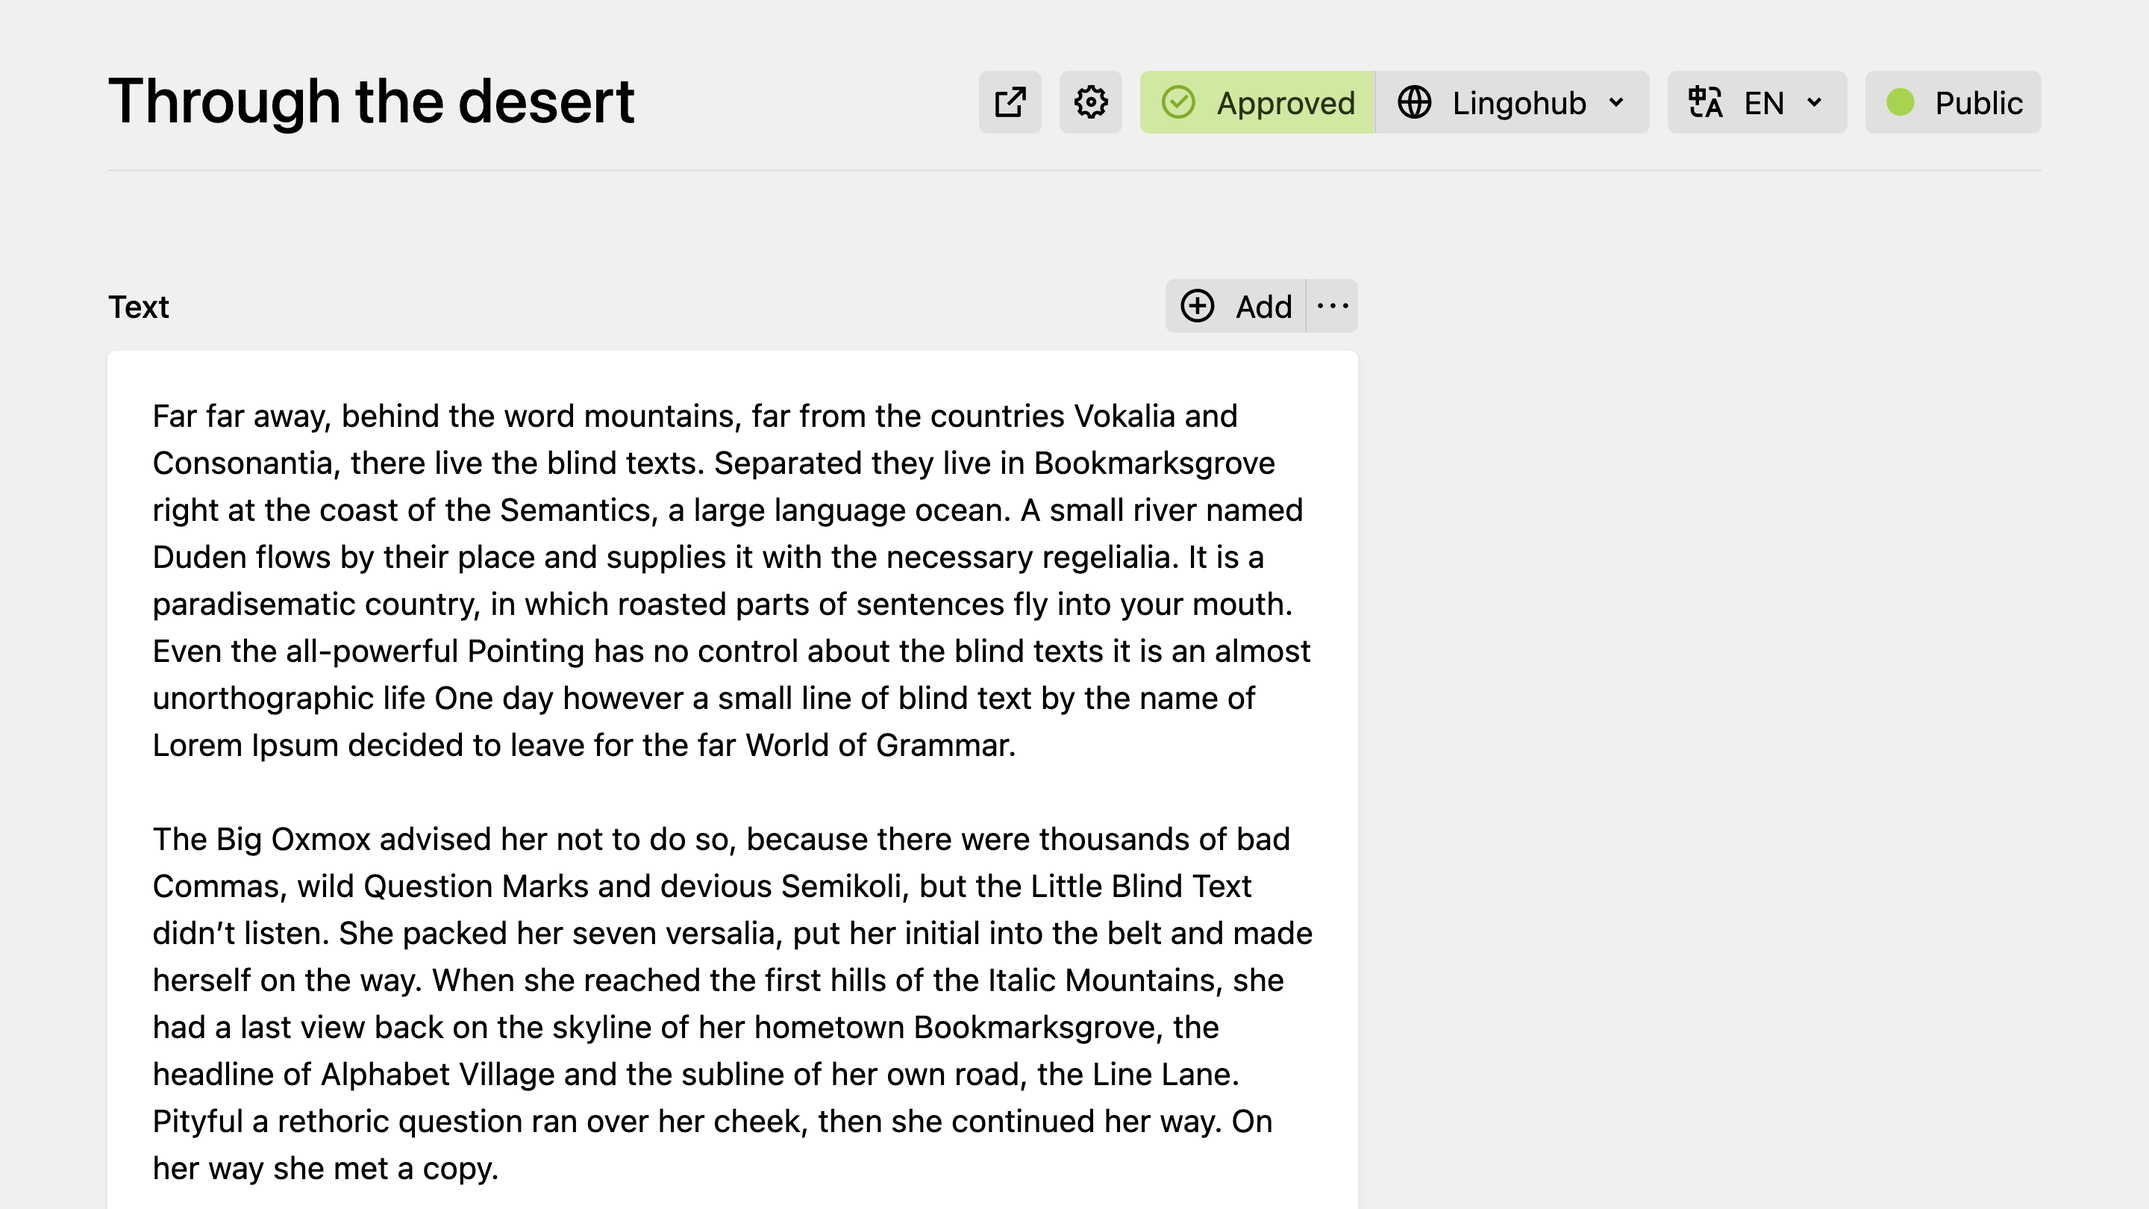
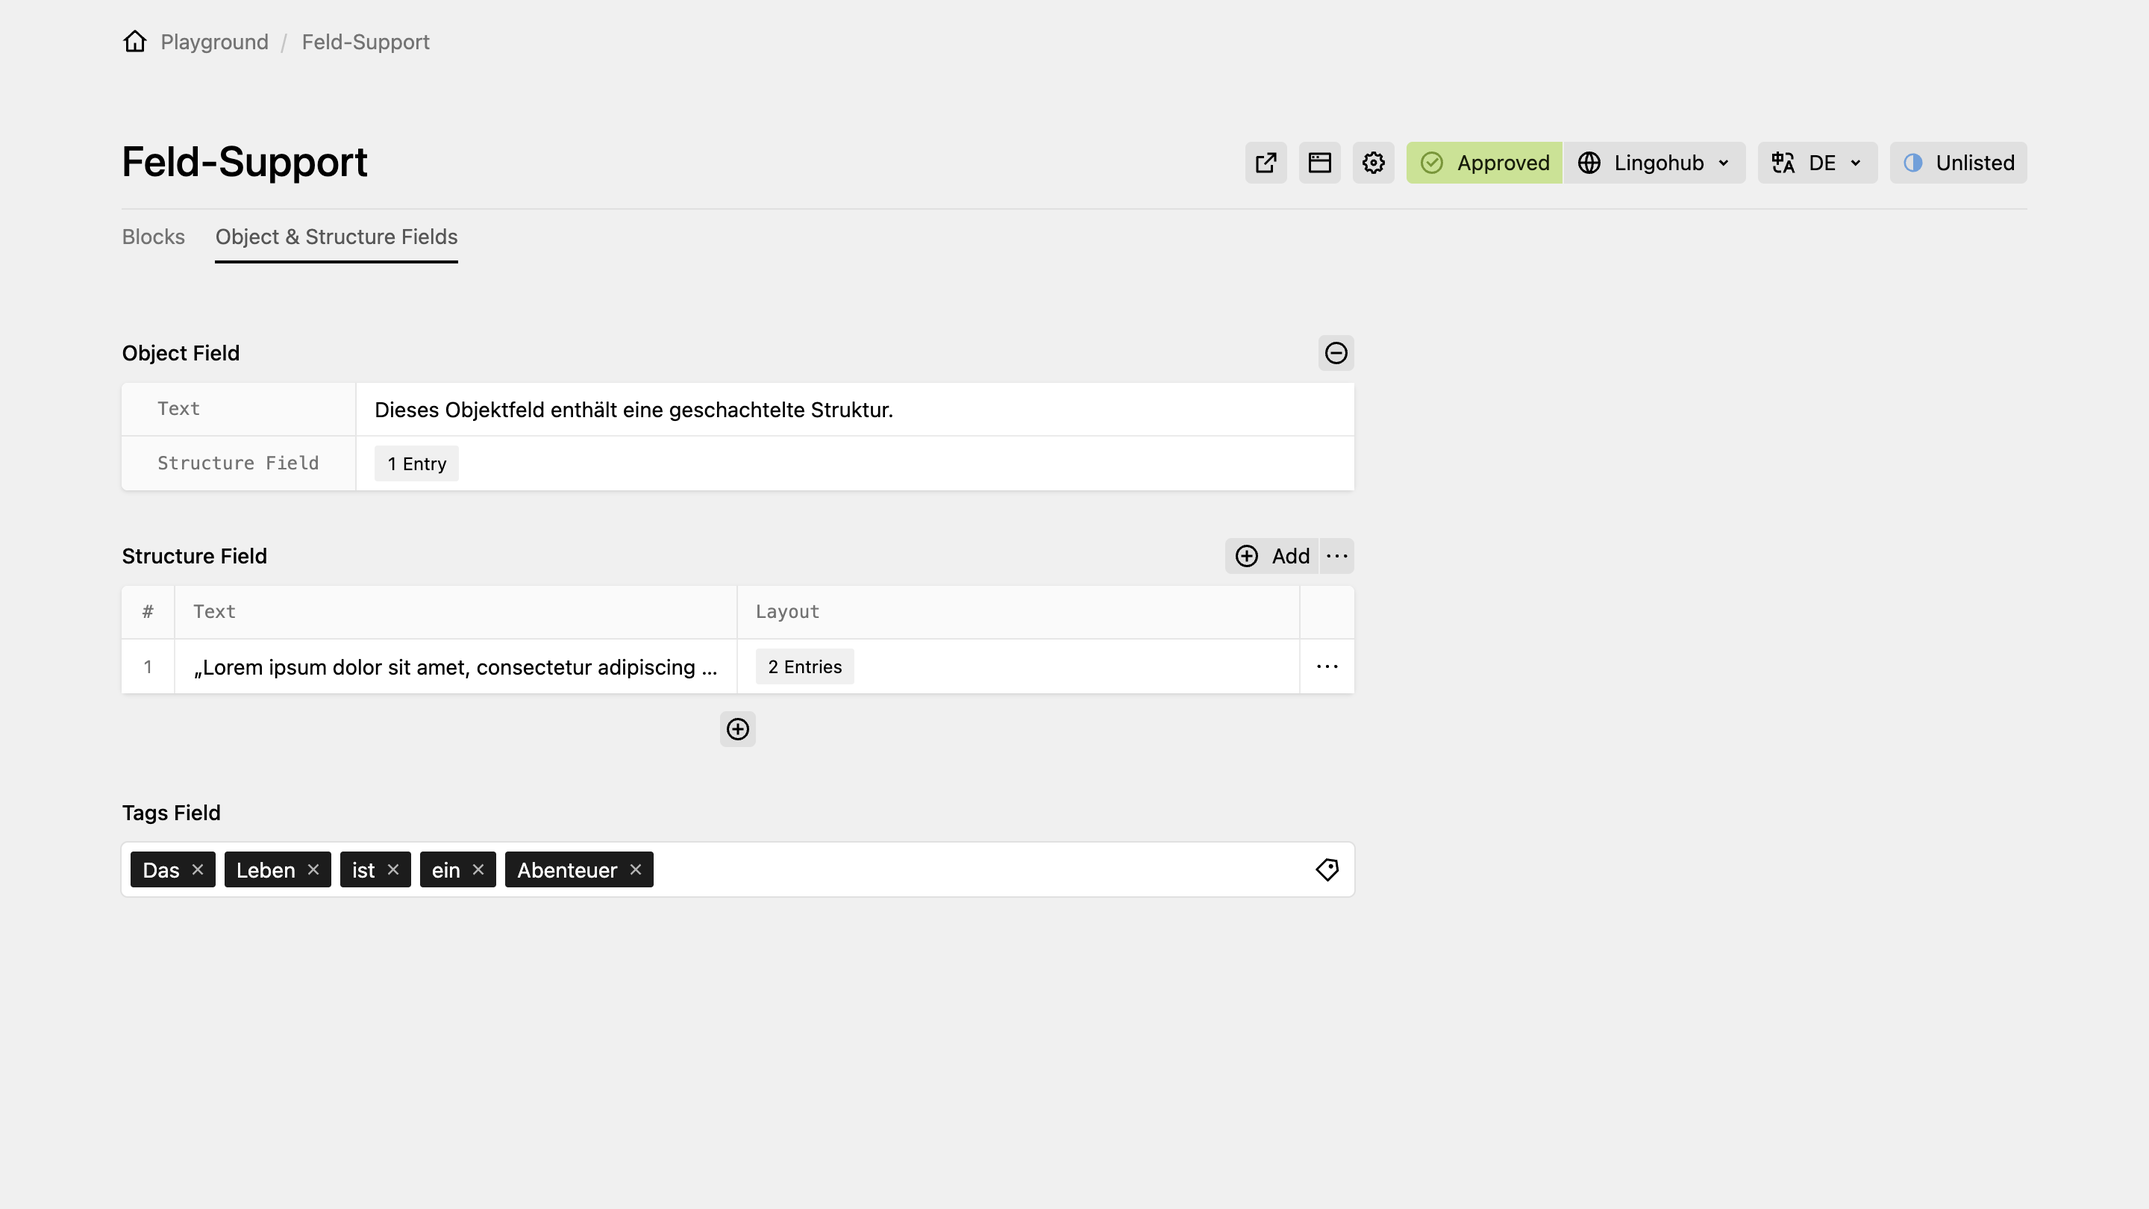
docs: rewrite the README in the shape of the sibling plugins

diff --git a/README.md b/README.md
@@ -1,11 +1,75 @@
-![Kirby Lingohub preview](./.github/kirby-lingohub.png)
+<div align="center">
+  <img src="./.github/favicon.svg" alt="Kirby Lingohub logo" width="120">
 
 # Kirby Lingohub
 
-The Kirby Lingohub plugin integrates the [Lingohub](https://lingohub.com) translation service into your Kirby website. The plugin allows you to upload content from Kirby to Lingohub for translation and download the translations back to Kirby. It handles the whole serialization and deserialization process, including complex field types like blocks, layouts, structures, and objects – even blocks nested within custom blocks.
+Kirby Lingohub is a plugin for [Kirby CMS](https://getkirby.com) that syncs content with the [Lingohub](https://lingohub.com) translation service – blocks, layouts, structures, and objects included, even blocks nested in custom blocks.
+
+[Setup](#setup) •
+[Options](#options) •
+[Field Options](#field-options) •
+[Key Format](#key-format)
+
+</div>
+
+## When to Use
+
+| I want to…                                      | Use                       |
+| ----------------------------------------------- | ------------------------- |
+| Upload and download translations from the Panel | `lingohub` view button    |
+| See each language's translation status          | `lingohub-status` section |
+| Change a field's translations only in Lingohub  | `translateExternalOnly`   |
+| Translate a field only in Kirby                 | `translateInKirbyOnly`    |
+| Keep a field out of Lingohub                    | `translate: false`        |
+
+## Features
+
+### ☁ Upload and Download
+
+The `lingohub` view button opens a dropdown with **Upload** and **Download Translations**. Add it to the `buttons` of a page, Site, or file blueprint:
+
+```yml
+buttons:
+  - preview
+  - settings
+  - lingohub
+  - languages
+  - status
+```
+
+**Upload** sends the languages you pick: the default language, preselected, and the translations that already exist in Kirby. Translations with no translated, draft, or approved segments in Lingohub yet are preselected too – handy when you move an existing site to Lingohub.
+
+**Download Translations** fetches the segments of the chosen status – **All**, **Translated and Approved**, or **Approved** (the default) – and writes them into each selected language. Languages whose segments are all approved are preselected. A segment the download doesn't include keeps the language's current text, or the default language's if it has none. Only users who may update the page, Site, or file can download into it.
 
 > [!NOTE]
-> For this plugin to work, you need to have a Lingohub account and a project set up. You can create a free account at [Lingohub](https://lingohub.com/).
+> Kirby 4 has no custom view buttons. The plugin backports the `lingohub` button to page views and places it before the languages dropdown.
+
+### 🚦 Translation Status
+
+Next to the dropdown, a status button shows the current language's [status in Lingohub](https://help.lingohub.com/en/articles/6683154-how-to-manage-your-translation-workflow-using-statuses): **Approved** once all its segments are approved, **In Translation** while some aren't, and **Not Uploaded** before the first upload. Click it for the segment counts per status, the failed quality checks, and the date of the last update.
+
+![Lingohub status button showing Approved](./.github/kirby-lingohub-status-approved.png)
+
+![Lingohub status dialog](./.github/kirby-lingohub-status-dialog.png)
+
+The `lingohub-status` section lists the same counts for every language of the page, Site, or file that Lingohub holds:
+
+```yml
+sections:
+  lingohubStatus:
+    type: lingohub-status
+    label: Translation Status
+```
+
+![Lingohub status section](./.github/kirby-lingohub-status-section.png)
+
+### 🔒 Translate Only in Lingohub
+
+Top-level fields with `translateExternalOnly` stay editable in the default language, but non-admins can't save a changed value in any other language. Use it for fields whose translations belong to Lingohub alone, so its translation memory stays consistent.
+
+### 🏠 Translate Only in Kirby
+
+Fields with `translateInKirbyOnly` never leave Kirby: uploads skip them, and downloads keep each language's own value – useful for images or files that differ per language.
 
 ## Requirements
 
@@ -23,195 +87,105 @@ composer require johannschopplich/kirby-lingohub
 
 Download and copy this repository to `/site/plugins/kirby-lingohub`.
 
-## Getting Started
+## Setup
 
-### 1⃣ Kirby Language Configuration
+### 1. Kirby Languages
 
-Set up a multi-language Kirby site. For each desired language, create a language file in the `site/languages` folder. The language file should contain the following information:
+The plugin needs a multi-language site. Give every language a `locale`: the plugin derives the Lingohub language code from it, with `_` replaced by `-` and a `.UTF-8` suffix dropped. With an array `locale`, it reads the `LC_ALL` entry. A language without a locale falls back to its code.
 
 ```php
 # /site/languages/en.php
 return [
     'code' => 'en',
     'default' => true,
-    'direction' => 'ltr',
-    'locale' => 'en_US',
-    // Or if you need multiple locales:
-    // 'locale' => [
-    //     'LC_ALL' => 'en_US.UTF-8',
-    // ]
+    'locale' => 'en_US', // Lingohub: `en-US`
     'name' => 'English'
 ];
 ```
 
-> [!NOTE]
-> Make sure to set the `locale` option to the correct locale for each language. This is important for the mapping between Kirby and Lingohub.
+### 2. Lingohub Project
 
-### 2⃣ Lingohub Setup
+Create a project in your Lingohub workspace and choose **File import**. Lingohub won't continue without a first file, so upload a JSON file named after the default language's code, e.g. `en-US.json` with `{"title": "Home"}`. Then pick the project type **JSON**:
 
-First, create a new project in your Lingohub workspace. Use the file format **JSON (Standard)**:
+![Lingohub project type](./.github/lingohub-project-type.png)
 
-![Lingohub platform format](./.github/lingohub-platform-format.png)
+Lingohub detects the source language from the file name. Add the other Kirby languages as targets, with the language codes derived from the locales: `en-US` for `en_US`, `de-DE` for `de_DE`.
 
-Now, configure the project to use the same source and target languages as you have in Kirby. The language code in Lingohub should match the locale in Kirby. From the example above, the locale in Kirby is `en_US`. Set the language code in Lingohub to `en-US`. (Note the difference in the delimiter.)
+Then [create an API key](https://help.lingohub.com/en/articles/16308304-managing-api-keys-in-your-workspace-settings) for the workspace with full permissions for **Resources** – uploads, downloads, and the status need nothing else.
 
-As another example: If the Kirby language code is `de` and the locale is `de_DE`, the Lingohub language code should be `de-DE`.
+### 3. Plugin Options
 
-Finally, create an API key for your workspace. Follow the [Lingohub API key guide](https://help.lingohub.com/en/articles/6775959-how-to-create-an-api-key) to create an API key with read/write access.
+Copy the workspace and project IDs from the Lingohub URLs:
 
-> [!NOTE]
-> Enable full permissions for the **Resources** section in the API key settings. This is required to upload and download translations. No other permissions are needed.
+- `workspace/space_16kPs3bRIpXi-29323/dashboard` → workspace ID `space_16kPs3bRIpXi-29323`
+- `project/pr_18JCETCbT9NW-31003/branches` → project ID `pr_18JCETCbT9NW-31003`
 
-### 3⃣ Kirby Plugin Configuration
+Add them and the API key to your `config.php`, see [Options](#options). Then add the `lingohub` button and, if you like, the `lingohub-status` section to your blueprints.
 
-After setting up the languages in Kirby and Lingohub, configure the plugin in the `site/config/config.php` file.
+## Options
 
-- To retrieve the workspace ID, open the Lingohub dashboard and copy the workspace ID from the URL. If the URL contains `workspace/space_16kPs3bRIpXi-29323/dashboard`, the workspace ID is `space_16kPs3bRIpXi-29323`.
-- For the project ID, open the project in Lingohub and copy the project ID from the URL. If the URL contains `project/pr_18JCETCbT9NW-31003/branches`, the project ID is `pr_18JCETCbT9NW-31003`.
+All options are namespaced under `johannschopplich.lingohub`. Each is required, and the Panel shows an error while one is missing.
+
+| Option        | Default | Description                                           |
+| ------------- | ------- | ----------------------------------------------------- |
+| `apiKey`      | –       | Lingohub API key with full **Resources** permissions. |
+| `workspaceId` | –       | ID of the Lingohub workspace.                         |
+| `projectId`   | –       | ID of the Lingohub project.                           |
+
+Example `config.php`:
 
 ```php
-# /site/config/config.php
 return [
     'languages' => true,
 
     'johannschopplich.lingohub' => [
-        'apiKey' => '<LINGOHUB_API_KEY>',
-        'workspaceId' => 'space_123-456',
-        'projectId' => 'pr_123-456',
+        'apiKey' => env('LINGOHUB_API_KEY'),
+        'workspaceId' => 'space_16kPs3bRIpXi-29323',
+        'projectId' => 'pr_18JCETCbT9NW-31003'
     ]
 ];
 ```
 
-### 4⃣ Blueprint Configuration
+## Field Options
 
-Kirby 5 introduces new extensions that allow you to add custom view buttons to most Panel views (e.g. page, site, or file). The Lingohub plugin provides a dropdown button that can be added alongside the default buttons, such as the languages dropdown button.
+Uploads include the page or Site title and every text-like field: `list`, `tags`, `text`, `textarea`, `writer`, `markdown`, and custom fields that extend one of them – also inside blocks, layouts, structures, and objects. Hidden blocks are skipped. Three blueprint options change what goes to Lingohub:
 
-To add the `lingohub` dropdown button to a particular view, set the `buttons` option in the corresponding blueprint. The following example shows how to reference the default buttons and add the `lingohub` button to a page blueprint:
-
-```yml
-title: Note
-
-buttons:
-  - preview
-  - settings
-  # Add the Lingohub button to the page view
-  - lingohub
-  - languages
-  - status
-```
-
-> [!NOTE]
-> Kirby 4 does not support custom view buttons, but the `lingohub` button has been backported. It is always placed before the language dropdown.
-
-Finalize your blueprints by adding the necessary translation configuration to each field, e.g. `translate: false` if a field should not be translated. The plugin will skip these fields when uploading content to Lingohub.
-
-## Usage
-
-### Translation Status
-
-The [translation status](https://help.lingohub.com/en/articles/6683154-manage-localization-with-statuses) is automatically retrieved from Lingohub and displayed in the user interface. It reflects the minimum status across all segments of the page. Only when all segments have the **Approved** status will the translation be shown as **Approved** in green:
-
-![Kirby Lingohub status approved](./.github/kirby-lingohub-status-approved.png)
-
-Click on the status to open a dialog with more detailed information:
-
-![Kirby Lingohub status dialog](./.github/kirby-lingohub-status-dialog.png)
-
-### Upload Translations for a Page or File
-
-Click on the **Lingohub** dropdown button in the Panel header and select **Upload**.
-
-![Kirby Lingohub upload translations](./.github/kirby-lingohub-upload.png)
-
-When you click on the button, a dialog will open where you can select the content you want to upload to Lingohub:
-
-- **Source Language**: Select it to upload the default language content to Lingohub. Pre-selected by default.
-- **Target Languages**: All languages that have translations for the current page. Pre-selected if there are no translations in Lingohub. This helps you to identify which languages need to be uploaded for the first time, e.g. when migrating an existing Kirby project to Lingohub.
-
-> [!NOTE]
-> If no translations are available in Kirby, the **Target Languages** list will be empty.
-
-After selecting the desired languages and confirming the dialog, the plugin will serialize the content and upload it to Lingohub for translation.
-
-### Download Translations from Lingohub
-
-Click on the **Lingohub** dropdown button in the Panel header and select **Download Translations**. This will open a dialog where you can select the languages and status of the translations to download:
-
-![Kirby Lingohub download translations](./.github/kirby-lingohub-download.png)
-
-The dialog contains the following fields:
-
-- **Status**: Define the minimum status of the segments to download. The default is **Approved**.
-- **Languages**: Select the languages to download. By default, all languages with a status of 100% approved in Lingohub are preselected.
-
-Submit the form to download the translations. The page will be updated with the new translations.
-
-## Features
-
-### `translateExternalOnly` Blueprint Field Option
-
-The `translateExternalOnly` option allows you to mark fields that should only be translatable using the external translation service (i.e. Lingohub). For these fields, only the source language is editable. In translations, these fields cannot be edited. Admins can always edit the fields, independent of this setting. Use this for fields where translations should be managed exclusively through Lingohub, ensuring the translation memory stays consistent.
+| Option                        | Upload  | Download                                         |
+| ----------------------------- | ------- | ------------------------------------------------ |
+| `translate: false`            | Skipped | Takes the default language's value, like Kirby   |
+| `translateInKirbyOnly: true`  | Skipped | Keeps the language's own value                   |
+| `translateExternalOnly: true` | Sent    | Written; non-admins can't change it in the Panel |
 
 ```yml
 fields:
   text:
-    label: Text
     type: blocks
     translateExternalOnly: true
-```
-
-### `translateInKirbyOnly` Blueprint Field Option
-
-The `translateInKirbyOnly` option marks fields that should only be translated within Kirby, not through Lingohub. These fields are excluded from uploads and preserved during downloads – their target language values are never overwritten by Lingohub translations.
-
-This is useful for fields like images or files that differ per language but are managed directly in the Panel.
-
-```yml
-fields:
   image:
-    label: Image
     type: files
     translateInKirbyOnly: true
 ```
 
+`translateExternalOnly` covers the top-level fields of pages, the Site, and files. Admins and the default language are exempt.
+
 > [!IMPORTANT]
-> The `translateInKirbyOnly` option must be set on individual **field** definitions, not on block fieldset definitions. Kirby only preserves known properties on fieldsets – custom attributes at the block root level are silently discarded.
+> Set `translateInKirbyOnly` on fields, not on block fieldsets: Kirby drops unknown keys at a fieldset's root.
 
-### Translation Status Table Section
+## Key Format
 
-![Kirby Lingohub status section](./.github/kirby-lingohub-status-section.png)
+Lingohub's **JSON (Standard)** format is a flat key–value map, and a segment keeps its translations only as long as its key stays the same. The plugin joins the names along a value's path with `_`:
 
-The status section is similar to [Lingohub's statuses overview](https://help.lingohub.com/en/articles/6788499-words-and-segments-overview) and displays the translation status for all available languages. The status section is read-only and cannot be edited.
+| Field           | Key                                        |
+| --------------- | ------------------------------------------ |
+| Text-like field | `{field}`                                  |
+| Structure       | `{field}_{rowIndex}_{subfield}`            |
+| Object          | `{field}_{subfield}`                       |
+| Blocks          | `{field}_{blockId}_{blockType}_{subfield}` |
+| Layout          | `{field}_{blockId}_{blockType}_{subfield}` |
 
-To add the status section to a blueprint, use the following configuration:
+Nested fields continue the chain, e.g. blocks inside a custom block: `{field}_{blockId}_{blockType}_{subfield}_{nestedBlockId}_{nestedBlockType}_{nestedSubfield}`. Layout and column IDs are not part of a key.
 
-```yml
-sections:
-  lingohubStatus:
-    type: lingohub-status
-```
-
-## FAQ
-
-### How Is Kirby Content Data Mapped to Lingohub?
-
-With the JSON (Standard) file format, Lingohub requires a key-value hierarchy structure where all elements in the chain have a long-term consistent key. Thus, nested data structures like `blocks`, `layout`, `structure`, and `object` fields in Kirby must be flattened to a key-value map. For example, block fields are transformed into a key-value map where the key is generated from the field name, block ID, block type, and content field name: `{fieldName}_{blockId}_{blockType}_{contentFieldName}`. Nested blocks (blocks within custom blocks) produce deeper key chains following the same pattern.
-
-Lingohub uses a path-based approach to identify the content. The path is generated from the Kirby model ID (which doesn't contain any draft status or sort numbers) and the language code.
-
-While Kirby uses a language code as file suffix (e.g., `en`), Lingohub uses a locale code (e.g., `en-US`). The plugin maps the Kirby language code to the Lingohub locale code.
-
-## Roadmap
-
-### Media Files
-
-- Translate all media files (images, videos, etc.) associated with the page. This is a nice-to-have feature that may be implemented in the future.
-
-### Mass Operations
-
-- Upload all pages to Lingohub in bulk, including translations if they already exist.
-- Download all pages from Lingohub in bulk. Configure which pages to process using a filter: e.g. only pages with a certain status or language.
-- Iterate through all pages in Kirby and check if new translations are available in Lingohub. If so, download them.
+Each model is one Lingohub resource per language. Its path is the page or file ID (`site` for the Site), its file name `{blueprint}_{locale}.json`, e.g. `notes/my-note/note_de-DE.json`. The ID holds neither the draft status nor the sorting number, so publishing or sorting a page keeps its resource. Changing a page's slug, moving it, or renaming a file changes the path, and changing a model's template or a language's locale changes the file name, so Lingohub treats it as a new resource.
 
 ## License
 
